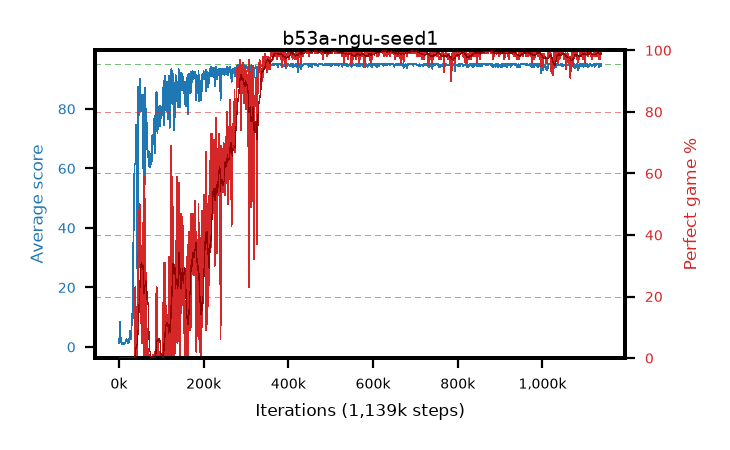
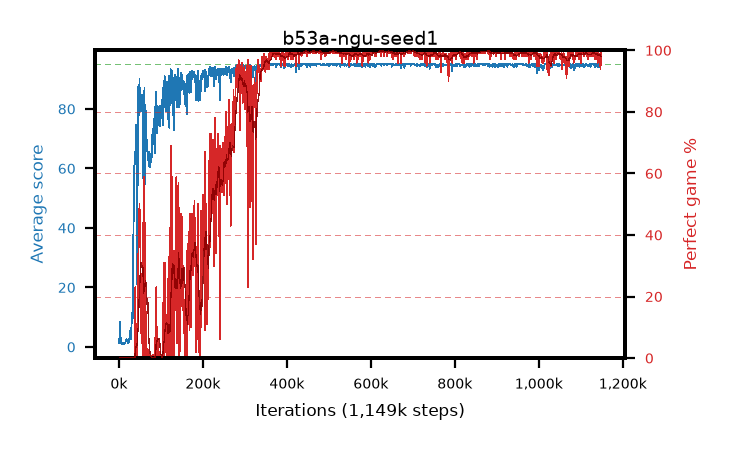
live pictures of 4 arm(s)

diff --git a/results/b53d-ngu-seed4/b53d-ngu-seed4.md b/results/b53d-ngu-seed4/b53d-ngu-seed4.md
@@ -1,6 +1,6 @@
 # b53d-ngu-seed4
 
-step **1,139,000** · 1139 evals · trailing **94.74** · peak **94.94** @1,040,000 · sef **73.5** · best30 **99.7** @1,024,000
+step **1,149,000** · 1149 evals · trailing **94.76** · peak **94.94** @1,040,000 · sef **73.7** · best30 **99.7** @1,024,000
 
 ## Config
 
@@ -80,15 +80,15 @@ step **1,139,000** · 1139 evals · trailing **94.74** · peak **94.94** @1,040,
 | 2000 | 2.39 | 1.47 | 0.0 | 8.0 | 1.286 | 0.0 | 0.4 |
 | 3000 | 6.99 | 3.31 | 0.0 | 25.0 | 5.34 | 0.0 | 0.4 |
 | ... | ... | ... | ... | ... | ... | ... | ... |
-| 1128000 | 94.97 | 94.7 | 92.0 | 95.0 | 192.668 | 99.0 | 0.4 |
-| 1129000 | 95.0 | 94.7 | 95.0 | 95.0 | 193.702 | 100.0 | 0.4 |
-| 1130000 | 95.0 | 94.73 | 95.0 | 95.0 | 193.71 | 100.0 | 0.4 |
-| 1131000 | 94.88 | 94.73 | 88.0 | 95.0 | 191.529 | 98.0 | 0.4 |
-| 1132000 | 94.55 | 94.76 | 50.0 | 95.0 | 192.204 | 99.0 | 0.4 |
-| 1133000 | 94.89 | 94.76 | 86.0 | 95.0 | 191.596 | 98.0 | 0.4 |
-| 1134000 | 94.07 | 94.75 | 19.0 | 95.0 | 189.744 | 97.0 | 0.4 |
-| 1135000 | 94.92 | 94.76 | 92.0 | 95.0 | 190.577 | 97.0 | 0.4 |
-| 1136000 | 94.88 | 94.76 | 87.0 | 95.0 | 191.522 | 98.0 | 0.4 |
-| 1137000 | 94.91 | 94.76 | 86.0 | 95.0 | 192.625 | 99.0 | 0.4 |
 | 1138000 | 94.97 | 94.76 | 92.0 | 95.0 | 192.686 | 99.0 | 0.4 |
 | 1139000 | 94.63 | 94.74 | 58.0 | 95.0 | 192.335 | 99.0 | 0.4 |
+| 1140000 | 94.61 | 94.73 | 56.0 | 95.0 | 192.272 | 99.0 | 0.4 |
+| 1141000 | 95.0 | 94.73 | 95.0 | 95.0 | 193.71 | 100.0 | 0.4 |
+| 1142000 | 95.0 | 94.76 | 95.0 | 95.0 | 193.697 | 100.0 | 0.4 |
+| 1143000 | 95.0 | 94.76 | 95.0 | 95.0 | 193.711 | 100.0 | 0.4 |
+| 1144000 | 94.26 | 94.74 | 21.0 | 95.0 | 191.925 | 99.0 | 0.4 |
+| 1145000 | 95.0 | 94.74 | 95.0 | 95.0 | 193.719 | 100.0 | 0.4 |
+| 1146000 | 95.0 | 94.76 | 95.0 | 95.0 | 193.717 | 100.0 | 0.4 |
+| 1147000 | 94.99 | 94.76 | 94.0 | 95.0 | 192.643 | 99.0 | 0.4 |
+| 1148000 | 94.95 | 94.75 | 90.0 | 95.0 | 192.656 | 99.0 | 0.4 |
+| 1149000 | 95.0 | 94.76 | 95.0 | 95.0 | 193.69 | 100.0 | 0.4 |

diff --git a/results/b53a-ngu-seed1/b53a-ngu-seed1.md b/results/b53a-ngu-seed1/b53a-ngu-seed1.md
@@ -1,6 +1,6 @@
 # b53a-ngu-seed1
 
-step **1,139,000** · 1139 evals · trailing **94.81** · peak **94.96** @643,000 · sef **75.3** · best30 **99.7** @643,000
+step **1,149,000** · 1149 evals · trailing **94.76** · peak **94.96** @643,000 · sef **75.5** · best30 **99.7** @643,000
 
 ## Config
 
@@ -80,15 +80,15 @@ step **1,139,000** · 1139 evals · trailing **94.81** · peak **94.96** @643,00
 | 2000 | 8.43 | 4.84 | 0.0 | 21.0 | 7.201 | 0.0 | 0.4 |
 | 3000 | 8.52 | 6.07 | 0.0 | 26.0 | 5.525 | 0.0 | 0.4 |
 | ... | ... | ... | ... | ... | ... | ... | ... |
-| 1128000 | 94.95 | 94.78 | 92.0 | 95.0 | 191.61 | 98.0 | 0.4 |
-| 1129000 | 95.0 | 94.78 | 95.0 | 95.0 | 193.709 | 100.0 | 0.4 |
-| 1130000 | 95.0 | 94.78 | 95.0 | 95.0 | 193.712 | 100.0 | 0.4 |
-| 1131000 | 94.97 | 94.79 | 92.0 | 95.0 | 192.644 | 99.0 | 0.4 |
-| 1132000 | 94.98 | 94.79 | 93.0 | 95.0 | 192.669 | 99.0 | 0.4 |
-| 1133000 | 94.13 | 94.76 | 17.0 | 95.0 | 189.748 | 97.0 | 0.4 |
-| 1134000 | 94.99 | 94.79 | 94.0 | 95.0 | 192.664 | 99.0 | 0.4 |
-| 1135000 | 94.92 | 94.78 | 90.0 | 95.0 | 191.573 | 98.0 | 0.4 |
-| 1136000 | 94.88 | 94.78 | 86.0 | 95.0 | 190.503 | 97.0 | 0.4 |
-| 1137000 | 95.0 | 94.8 | 95.0 | 95.0 | 193.724 | 100.0 | 0.4 |
 | 1138000 | 94.32 | 94.81 | 27.0 | 95.0 | 191.984 | 99.0 | 0.4 |
 | 1139000 | 95.0 | 94.81 | 95.0 | 95.0 | 193.711 | 100.0 | 0.4 |
+| 1140000 | 94.12 | 94.8 | 18.0 | 95.0 | 188.699 | 96.0 | 0.4 |
+| 1141000 | 94.96 | 94.8 | 91.0 | 95.0 | 192.625 | 99.0 | 0.4 |
+| 1142000 | 95.0 | 94.81 | 95.0 | 95.0 | 193.701 | 100.0 | 0.4 |
+| 1143000 | 94.19 | 94.78 | 16.0 | 95.0 | 190.81 | 98.0 | 0.4 |
+| 1144000 | 94.29 | 94.76 | 27.0 | 95.0 | 190.961 | 98.0 | 0.4 |
+| 1145000 | 94.87 | 94.76 | 84.0 | 95.0 | 191.53 | 98.0 | 0.4 |
+| 1146000 | 94.31 | 94.74 | 29.0 | 95.0 | 190.94 | 98.0 | 0.4 |
+| 1147000 | 94.71 | 94.75 | 86.0 | 95.0 | 187.29 | 94.0 | 0.4 |
+| 1148000 | 95.0 | 94.76 | 95.0 | 95.0 | 193.689 | 100.0 | 0.4 |
+| 1149000 | 94.95 | 94.76 | 90.0 | 95.0 | 192.655 | 99.0 | 0.4 |
